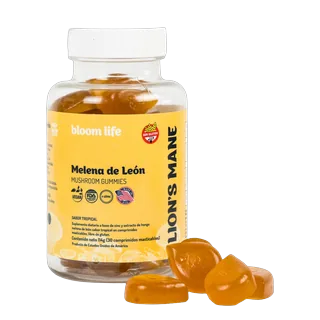
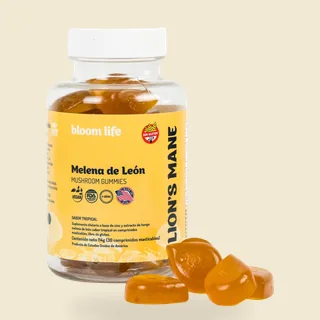
diseno(menu): las miniaturas de producto sobre un set, como los combos
Las fotos de la columna de COMBOS ya venian escenificadas: los frascos sobre un
crema tibio (240,235,225) con sombra de contacto, del og:image de TN. Y son
justo las que no podemos reprocesar sin romper la automacion horaria.

Asi que la consistencia va al reves: los adaptogenos se hornean sobre el MISMO
set, corrido un 12% hacia el hue de cada producto, con su propia sombra de
contacto. Cada frasco trae su identidad y las cinco siguen leyendose como
familia. Es lo que hace Dirtea con sus fondos de color, a la intensidad de
nuestra marca.

Miniatura de 46 -> 64px (54 entre 768 y 1023): a 46 el frasco era una mancha.
Y sin background en el contenedor, con object-fit:cover — las tres columnas
traen ahora imagenes OPACAS con su fondo horneado.

Peso: BAJA de 85 a 67,5 KB (el WebP opaco comprime mejor que con alpha).

Bonus medido: en mobile los acordeones cerrados no renderizan su contenido, asi
que de 30 fotos solo se piden las 10 de la columna abierta.

diff --git a/css/menu-nav.css b/css/menu-nav.css
@@ -131,8 +131,8 @@
   display: flex;
   align-items: center;
   gap: 12px;
-  padding: 7px 8px 7px 10px;
-  border-radius: 8px;
+  padding: 8px 8px 8px 10px;
+  border-radius: 10px;
   border-left: 2px solid transparent;
   text-decoration: none;
   transition: background .16s ease, border-color .16s ease;
@@ -148,21 +148,25 @@
   outline: none;
 }
 
+/* 64px y no 46: la miniatura es el ancla visual de la fila y a 46 el frasco era
+   una mancha. Es lo más grande que entra sin que la columna crezca de más — el
+   panel ya mide ~560px de alto con cinco filas. */
 .bl-menu__foto {
   flex: 0 0 auto;
-  width: 46px; height: 46px;
+  width: 64px; height: 64px;
   display: grid;
   place-items: center;
-  border-radius: 7px;
-  background: var(--bl-menu-arena);
+  border-radius: 8px;
   overflow: hidden;
 }
 
-.bl-menu__foto img { width: 100%; height: 100%; object-fit: contain; display: block; }
-
-/* Las de objetivos son fotos lifestyle 3:4 recortadas, no packshots con alpha:
-   tienen que llenar el cuadro, no encajar dentro con aire. */
-.bl-menu__col:nth-child(3) .bl-menu__foto img { object-fit: cover; }
+/* SIN background propio y con cover: las tres columnas traen ahora imágenes
+   OPACAS que ya llevan su fondo horneado —los adaptógenos el set crema tintado
+   que genera build_menu_adaptogenos.py, los combos el set del og:image de TN, los
+   objetivos la foto lifestyle—. Un background acá se vería solo en el instante
+   previo a que cargue la imagen, y `contain` dejaría aire alrededor de una foto
+   que ya es cuadrada. */
+.bl-menu__foto img { width: 100%; height: 100%; object-fit: cover; display: block; }
 
 .bl-menu__txt { display: flex; flex-direction: column; gap: 1px; min-width: 0; }
 
@@ -358,7 +362,7 @@
   .bl-menu__panelinner { grid-template-columns: repeat(3, minmax(0, 1fr)); gap: 0 22px; padding: 24px 22px 28px; }
   .bl-menu__destacado { grid-column: 1 / -1; margin-top: 18px; flex-direction: row; align-items: center; flex-wrap: wrap; gap: 4px 16px; }
   .bl-menu__desbajada { flex: 1 1 100%; }
-  .bl-menu__foto { width: 40px; height: 40px; }
+  .bl-menu__foto { width: 54px; height: 54px; }
   .bl-menu__barra { gap: 20px; }
 }
 

diff --git a/build_menu_adaptogenos.py b/build_menu_adaptogenos.py
@@ -38,13 +38,29 @@ import os
 import sys
 
 import numpy as np
-from PIL import Image
+from PIL import Image, ImageDraw, ImageFilter
 
 S = 320                    # cubre un slot de 160px a 2x
 FILL_V = 0.874             # referencia de la familia (la de Melena de León)
 CX, CY = 0.50, 0.52
 CALIDAD = 82
 S_OBJ, V_OBJ = 0.42, 0.72  # registro común del filete
+
+# ── EL SET ───────────────────────────────────────────────────────────────────
+# Las fotos de la columna de COMBOS vienen del og:image de cada producto y ya
+# están escenificadas: los frascos sobre un fondo crema tibio (240,235,225) con
+# sombra de contacto. Se ven mejor que un recorte flotando, y son las que NO
+# podemos reprocesar sin romper la automación horaria que sigue al home.
+#
+# Así que la consistencia se logra al revés: los adaptógenos se hornean sobre el
+# MISMO set que ya tienen los combos. Y se le susurra el tono del producto —un
+# 12% hacia su propio hue— para que cada frasco traiga su identidad sin que las
+# cinco miniaturas dejen de leerse como una familia. Es lo que hace Dirtea con
+# sus fondos de color, pero al nivel de intensidad de nuestra marca.
+SET_BASE = (240, 235, 225)  # el crema exacto de las fotos de combos
+SET_TINTE = 0.12            # cuánto se corre hacia el hue del producto
+SOMBRA_OPACIDAD = 0.13
+SOMBRA_ALTO = 0.055         # de la altura del lienzo
 
 # Las 5 lifestyle de la sección de beneficios se reusan en la columna "Por
 # objetivo" del panel, pero NO se pueden usar tal cual: son JPEG de 800x1066 que
@@ -64,16 +80,38 @@ ITEMS = [
 ]
 
 
-def encuadrar(im):
-    """Alinea por bounding box del objeto opaco, no por el lienzo."""
+def color_set(hue):
+    """El crema de los combos, corrido SET_TINTE hacia el hue del producto."""
+    r, g, b = colorsys.hsv_to_rgb(hue, 0.55, 1.0)
+    base = np.array(SET_BASE, np.float32)
+    tinte = np.array([r * 255, g * 255, b * 255], np.float32)
+    return tuple(int(round(v)) for v in (base * (1 - SET_TINTE) + tinte * SET_TINTE))
+
+
+def encuadrar(im, hue):
+    """Alinea por bounding box del objeto opaco y lo hornea sobre el set."""
     a = np.asarray(im)[..., 3]
     ys, xs = np.where(a > 8)
     obj = im.crop((xs.min(), ys.min(), xs.max() + 1, ys.max() + 1))
     h = int(S * FILL_V)
     w = max(1, round(obj.width * h / obj.height))
     obj = obj.resize((w, h), Image.LANCZOS)
-    lienzo = Image.new("RGBA", (S, S), (0, 0, 0, 0))
-    lienzo.paste(obj, (round(S * CX - w / 2), round(S * CY - h / 2)), obj)
+
+    lienzo = Image.new("RGB", (S, S), color_set(hue))
+
+    # Sombra de contacto: una elipse difusa al pie del frasco. Sin esto el objeto
+    # flota sobre el color y se nota que es un recorte pegado, que es justo lo
+    # que estamos corrigiendo.
+    x0, y0 = round(S * CX - w / 2), round(S * CY - h / 2)
+    sh = Image.new("L", (S, S), 0)
+    ImageDraw.Draw(sh).ellipse(
+        [x0 + w * 0.10, y0 + h - S * SOMBRA_ALTO * 0.6,
+         x0 + w * 0.90, y0 + h + S * SOMBRA_ALTO * 0.9], fill=255)
+    sh = sh.filter(ImageFilter.GaussianBlur(S * 0.022))
+    sh = sh.point(lambda v: int(v * SOMBRA_OPACIDAD))
+    lienzo.paste(Image.new("RGB", (S, S), (60, 52, 44)), (0, 0), sh)
+
+    lienzo.paste(obj, (x0, y0), obj)
     return lienzo
 
 
@@ -113,7 +151,7 @@ def main(src):
         orig = Image.open(os.path.join(src, slug + ".png")).convert("RGBA")
         crudo = color_etiqueta(orig)
         filete, hue = armonizar(crudo)
-        im = encuadrar(orig)
+        im = encuadrar(orig, hue / 360.0)
         nom = f"adaptogeno-{slug}.webp"
         p = os.path.join(dst, nom)
         im.save(p, "WEBP", quality=CALIDAD, method=6)
